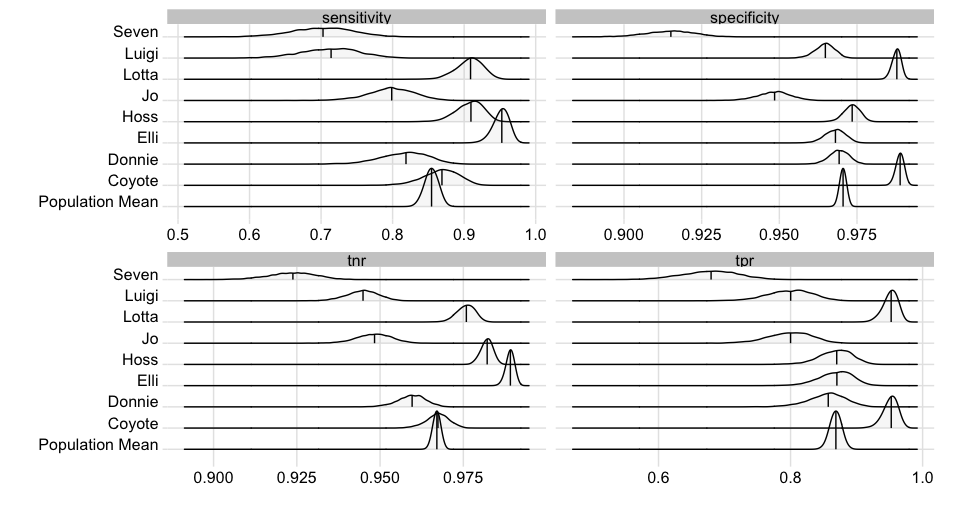
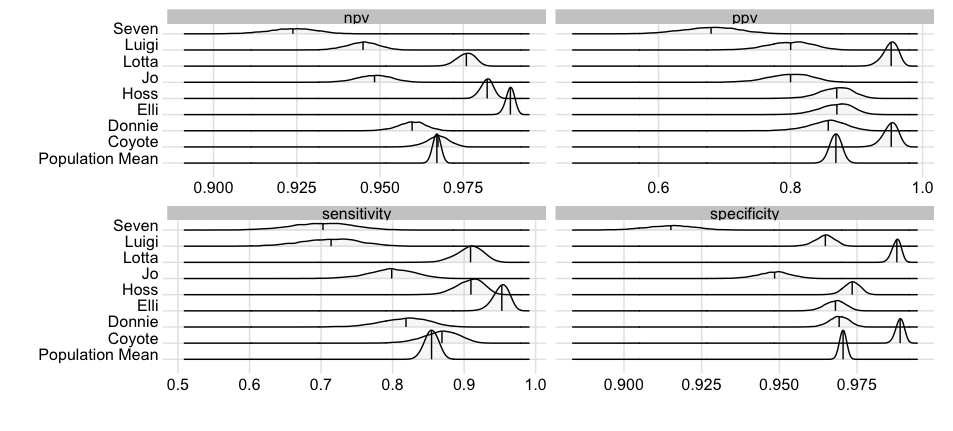
edits to covid post

Changed region(s): [[0.0304, 0.0, 0.9738, 0.935], [0.5477, 0.4223, 0.5782, 0.4826], [0.9433, 0.9049, 0.9738, 0.935]]

diff --git a/public/2020/08/03/study-finds-man-s-best-friend-may-have-a-role-to-play-in-testing-for-covid-19/index.html b/public/2020/08/03/study-finds-man-s-best-friend-may-have-a-role-to-play-in-testing-for-covid-19/index.html
@@ -8,7 +8,7 @@
     <meta name="google-site-verification" content="xBT4GhYoi5qRD5tr338pgPM5OWHHIDR6mNg1a3euekI" />
     <meta name="viewport" content="width=device-width, initial-scale=1">
     
-    <meta name="description" content="Bayesian analysis of the sensitivity, specificity, TPR, and TNR distributions from a German study measuring dogs&#39; ability to detect SARS-CoV-2 from saliva and tracheobronchial secretions">
+    <meta name="description" content="Bayesian analysis of the sensitivity, specificity, PPV, and NPV distributions from a German study measuring dogs&#39; ability to detect SARS-CoV-2 from saliva and tracheobronchial secretions">
     
     <meta name="keyword"  content="Kyle Webb, Webb, Blog">
     
@@ -417,7 +417,7 @@ Seven
 </table>
 <p>The bar chart below shows the dogs and the number of guesses they make (<em>Total</em> column above) with Luigi leading the pack.</p>
 <p><img src="/post/2020-08-03-study-finds-man-s-best-friend-may-have-a-role-to-play-in-testing-for-covid-19_files/figure-html/plot_dat-1.png" width="672" /></p>
-<p>Scatterplots below show the dogs’ measures of sensitivity, specificity, true positive rate (TPR) and true negative rate (TNR), each calculated from the true positive (TP), true negative (TN), false positive (FP), and false negative (FN) observations in Table 1.</p>
+<p>Scatterplots below show the dogs’ measures of sensitivity, specificity, positive predictive value (PPV) and negative predictive value (NPV), each calculated from the true positive (TP), true negative (TN), false positive (FP), and false negative (FN) observations in Table 1.</p>
 <p><img src="/post/2020-08-03-study-finds-man-s-best-friend-may-have-a-role-to-play-in-testing-for-covid-19_files/figure-html/plot_dat2-1.png" width="672" /></p>
 <p>Next, I used bayesian analysis to quantify these estimates probabilistically and derive population effects as well as effects for each dog. I’ve used Bayesian statistics because some of the estimates approach the boundary line for the proportion parameters (i.e. 1), the quantities are in relatively low frequency of observation, and I can encorporate priors reflecting my own beliefs before learning about these results.</p>
 </div>
@@ -425,13 +425,13 @@ Seven
 <h4>Modeling effects for each measure using Beta-Binomial conjugacy</h4>
 <p>Under this method I assume a <span class="math inline">\(Beta(3,3)\)</span> prior (shown below). The reason for this selection was because the choice reflected my initial reaction to the headlines - I would expect a dog’s detection, positive and negative, to be about 50%.</p>
 <p><img src="/post/2020-08-03-study-finds-man-s-best-friend-may-have-a-role-to-play-in-testing-for-covid-19_files/figure-html/beta_prior-1.png" width="672" /></p>
-<p>The underlying model is <span class="math inline">\(Y_{ij} = {n_{ij} \choose x_{ij}}p_{ij}^{x_{ij}}(1-p_{ij})^{n_{ij}-x_{ij}}\)</span> where <span class="math inline">\(i = {(1, 2, 3..., 8)}\)</span> for each of the dogs and <span class="math inline">\(j = {(1, 2, 3, 4)}\)</span> for the different accuracy measures. The <span class="math inline">\(Beta(3,3)\)</span> prior leads to a posterior of <span class="math inline">\(Beta(\sum{x_i} + 3, n - \sum{x_i} + 3)\)</span> for each <span class="math inline">\(p_{ij}\)</span>. The figure below shows these respective posteriors for each of the dogs across the four measures with overall median illustrated by dashed red lines. We see that Lotta would likely outpreform other dogs in measures of sensitivity and true positive rate.</p>
+<p>The underlying model is <span class="math inline">\(Y_{ij} = {n_{ij} \choose x_{ij}}p_{ij}^{x_{ij}}(1-p_{ij})^{n_{ij}-x_{ij}}\)</span> where <span class="math inline">\(i = {(1, 2, 3..., 8)}\)</span> for each of the dogs and <span class="math inline">\(j = {(1, 2, 3, 4)}\)</span> for the different accuracy measures. The <span class="math inline">\(Beta(3,3)\)</span> prior leads to a posterior of <span class="math inline">\(Beta(\sum{x_i} + 3, n - \sum{x_i} + 3)\)</span> for each <span class="math inline">\(p_{ij}\)</span>. The figure below shows these respective posteriors for each of the dogs across the four measures with overall median illustrated by dashed red lines. We see that Lotta would likely outpreform other dogs in measures of sensitivity and PPV.</p>
 <p><img src="/post/2020-08-03-study-finds-man-s-best-friend-may-have-a-role-to-play-in-testing-for-covid-19_files/figure-html/beta_conj_sim.png" /></p>
 </div>
 <div id="modeling-population-and-dog-effects-for-each-measure-on-logit-scale" class="section level4">
 <h4>Modeling population and dog effects for each measure on logit scale</h4>
 <p>The problem with the previous model choice is that it doesn’t distinguish between the random effect of the population dog effect and the fixed effect of each dog’s performance. A hierarchical model with estimates on poulation and individual dog effect would be a better choice for our analysis.</p>
-<p>For a weaker performing dog, we need a way to estimate negative effects, but <span class="math inline">\(p\)</span> can’t be negative (<span class="math inline">\(p \in [0,1]\)</span>). Therefore, I’ve transformed the percentages for sensitivity, specificty, tpr, and tnr to the logit scale (i.e. <span class="math inline">\(logitP = log(\frac{p {1-p)\)</span> s.t. <span class="math inline">\(p \in (-\infty, \infty)\)</span>). I add the logit random effects of population and fixed individual dog effects, while choosing appropriate priors for these effects on the logit scale. The following model shows the hierarchical relation:</p>
+<p>For a weaker performing dog, we need a way to estimate negative effects, but <span class="math inline">\(p\)</span> can’t be negative (<span class="math inline">\(p \in [0,1]\)</span>). Therefore, I’ve transformed the percentages for sensitivity, specificty, ppv, and npv to the logit scale (i.e. <span class="math inline">\(logitP = log(\frac{p {1-p)\)</span> s.t. <span class="math inline">\(p \in (-\infty, \infty)\)</span>). I add the logit random effects of population and fixed individual dog effects, while choosing appropriate priors for these effects on the logit scale. The following model shows the hierarchical relation:</p>
 <p><span class="math inline">\(\mu_{j} \sim N(logitP_{j}, \frac{1}{\sqrt{n_{j}}})\)</span><br />
 <span class="math inline">\(\theta_{ij} \sim N(logitP_{ij} - logitP_{j}, \frac{1}{\sqrt{n_{ij}}})\)</span><br />
 <span class="math inline">\(p_{ij} = \frac{1}{1 + exp(-\mu_{j}-\theta_{ij})}\)</span><br />

diff --git a/content/post/2020-08-03-study-finds-man-s-best-friend-may-have-a-role-to-play-in-testing-for-covid-19.html b/content/post/2020-08-03-study-finds-man-s-best-friend-may-have-a-role-to-play-in-testing-for-covid-19.html
@@ -9,9 +9,9 @@ categories:
 tags:
   - data science
   - statistics
-subtitle: ''
-description: "Bayesian analysis of the sensitivity, specificity, TPR, and TNR distributions from a German study measuring dogs' ability to detect SARS-CoV-2 from saliva and tracheobronchial secretions"
-image: ''
+subtitle: ""
+description: "Bayesian analysis of the sensitivity, specificity, PPV, and NPV distributions from a German study measuring dogs' ability to detect SARS-CoV-2 from saliva and tracheobronchial secretions"
+image: ""
 ---
 
 <script src="/rmarkdown-libs/kePrint/kePrint.js"></script>
@@ -240,7 +240,7 @@ Seven
 </table>
 <p>The bar chart below shows the dogs and the number of guesses they make (<em>Total</em> column above) with Luigi leading the pack.</p>
 <p><img src="/post/2020-08-03-study-finds-man-s-best-friend-may-have-a-role-to-play-in-testing-for-covid-19_files/figure-html/plot_dat-1.png" width="672" /></p>
-<p>Scatterplots below show the dogs’ measures of sensitivity, specificity, true positive rate (TPR) and true negative rate (TNR), each calculated from the true positive (TP), true negative (TN), false positive (FP), and false negative (FN) observations in Table 1.</p>
+<p>Scatterplots below show the dogs’ measures of sensitivity, specificity, positive predictive value (PPV) and negative predictive value (NPV), each calculated from the true positive (TP), true negative (TN), false positive (FP), and false negative (FN) observations in Table 1.</p>
 <p><img src="/post/2020-08-03-study-finds-man-s-best-friend-may-have-a-role-to-play-in-testing-for-covid-19_files/figure-html/plot_dat2-1.png" width="672" /></p>
 <p>Next, I used bayesian analysis to quantify these estimates probabilistically and derive population effects as well as effects for each dog. I’ve used Bayesian statistics because some of the estimates approach the boundary line for the proportion parameters (i.e. 1), the quantities are in relatively low frequency of observation, and I can encorporate priors reflecting my own beliefs before learning about these results.</p>
 </div>
@@ -248,13 +248,13 @@ Seven
 <h4>Modeling effects for each measure using Beta-Binomial conjugacy</h4>
 <p>Under this method I assume a <span class="math inline">\(Beta(3,3)\)</span> prior (shown below). The reason for this selection was because the choice reflected my initial reaction to the headlines - I would expect a dog’s detection, positive and negative, to be about 50%.</p>
 <p><img src="/post/2020-08-03-study-finds-man-s-best-friend-may-have-a-role-to-play-in-testing-for-covid-19_files/figure-html/beta_prior-1.png" width="672" /></p>
-<p>The underlying model is <span class="math inline">\(Y_{ij} = {n_{ij} \choose x_{ij}}p_{ij}^{x_{ij}}(1-p_{ij})^{n_{ij}-x_{ij}}\)</span> where <span class="math inline">\(i = {(1, 2, 3..., 8)}\)</span> for each of the dogs and <span class="math inline">\(j = {(1, 2, 3, 4)}\)</span> for the different accuracy measures. The <span class="math inline">\(Beta(3,3)\)</span> prior leads to a posterior of <span class="math inline">\(Beta(\sum{x_i} + 3, n - \sum{x_i} + 3)\)</span> for each <span class="math inline">\(p_{ij}\)</span>. The figure below shows these respective posteriors for each of the dogs across the four measures with overall median illustrated by dashed red lines. We see that Lotta would likely outpreform other dogs in measures of sensitivity and true positive rate.</p>
+<p>The underlying model is <span class="math inline">\(Y_{ij} = {n_{ij} \choose x_{ij}}p_{ij}^{x_{ij}}(1-p_{ij})^{n_{ij}-x_{ij}}\)</span> where <span class="math inline">\(i = {(1, 2, 3..., 8)}\)</span> for each of the dogs and <span class="math inline">\(j = {(1, 2, 3, 4)}\)</span> for the different accuracy measures. The <span class="math inline">\(Beta(3,3)\)</span> prior leads to a posterior of <span class="math inline">\(Beta(\sum{x_i} + 3, n - \sum{x_i} + 3)\)</span> for each <span class="math inline">\(p_{ij}\)</span>. The figure below shows these respective posteriors for each of the dogs across the four measures with overall median illustrated by dashed red lines. We see that Lotta would likely outpreform other dogs in measures of sensitivity and PPV.</p>
 <p><img src="/post/2020-08-03-study-finds-man-s-best-friend-may-have-a-role-to-play-in-testing-for-covid-19_files/figure-html/beta_conj_sim.png" /></p>
 </div>
 <div id="modeling-population-and-dog-effects-for-each-measure-on-logit-scale" class="section level4">
 <h4>Modeling population and dog effects for each measure on logit scale</h4>
 <p>The problem with the previous model choice is that it doesn’t distinguish between the random effect of the population dog effect and the fixed effect of each dog’s performance. A hierarchical model with estimates on poulation and individual dog effect would be a better choice for our analysis.</p>
-<p>For a weaker performing dog, we need a way to estimate negative effects, but <span class="math inline">\(p\)</span> can’t be negative (<span class="math inline">\(p \in [0,1]\)</span>). Therefore, I’ve transformed the percentages for sensitivity, specificty, tpr, and tnr to the logit scale (i.e. <span class="math inline">\(logitP = log(\frac{p {1-p)\)</span> s.t. <span class="math inline">\(p \in (-\infty, \infty)\)</span>). I add the logit random effects of population and fixed individual dog effects, while choosing appropriate priors for these effects on the logit scale. The following model shows the hierarchical relation:</p>
+<p>For a weaker performing dog, we need a way to estimate negative effects, but <span class="math inline">\(p\)</span> can’t be negative (<span class="math inline">\(p \in [0,1]\)</span>). Therefore, I’ve transformed the percentages for sensitivity, specificty, ppv, and npv to the logit scale (i.e. <span class="math inline">\(logitP = log(\frac{p {1-p)\)</span> s.t. <span class="math inline">\(p \in (-\infty, \infty)\)</span>). I add the logit random effects of population and fixed individual dog effects, while choosing appropriate priors for these effects on the logit scale. The following model shows the hierarchical relation:</p>
 <p><span class="math inline">\(\mu_{j} \sim N(logitP_{j}, \frac{1}{\sqrt{n_{j}}})\)</span><br />
 <span class="math inline">\(\theta_{ij} \sim N(logitP_{ij} - logitP_{j}, \frac{1}{\sqrt{n_{ij}}})\)</span><br />
 <span class="math inline">\(p_{ij} = \frac{1}{1 + exp(-\mu_{j}-\theta_{ij})}\)</span><br />

diff --git a/public/categories/data-science/index.html b/public/categories/data-science/index.html
@@ -171,7 +171,7 @@
 	
         <div class="post-content-preview">
 	
-            Bayesian analysis of the sensitivity, specificity, TPR, and TNR distributions from a German study measuring dogs&#39; ability to detect SARS-CoV-2 from saliva and tracheobronchial secretions
+            Bayesian analysis of the sensitivity, specificity, PPV, and NPV distributions from a German study measuring dogs&#39; ability to detect SARS-CoV-2 from saliva and tracheobronchial secretions
         
         </div>
     </a>

diff --git a/public/categories/statistics/index.html b/public/categories/statistics/index.html
@@ -171,7 +171,7 @@
 	
         <div class="post-content-preview">
 	
-            Bayesian analysis of the sensitivity, specificity, TPR, and TNR distributions from a German study measuring dogs&#39; ability to detect SARS-CoV-2 from saliva and tracheobronchial secretions
+            Bayesian analysis of the sensitivity, specificity, PPV, and NPV distributions from a German study measuring dogs&#39; ability to detect SARS-CoV-2 from saliva and tracheobronchial secretions
         
         </div>
     </a>

diff --git a/public/index.html b/public/index.html
@@ -172,7 +172,7 @@
 	
         <div class="post-content-preview">
 	
-            Bayesian analysis of the sensitivity, specificity, TPR, and TNR distributions from a German study measuring dogs&#39; ability to detect SARS-CoV-2 from saliva and tracheobronchial secretions
+            Bayesian analysis of the sensitivity, specificity, PPV, and NPV distributions from a German study measuring dogs&#39; ability to detect SARS-CoV-2 from saliva and tracheobronchial secretions
         
         </div>
     </a>

diff --git a/public/tags/data-science/index.html b/public/tags/data-science/index.html
@@ -171,7 +171,7 @@
 	
         <div class="post-content-preview">
 	
-            Bayesian analysis of the sensitivity, specificity, TPR, and TNR distributions from a German study measuring dogs&#39; ability to detect SARS-CoV-2 from saliva and tracheobronchial secretions
+            Bayesian analysis of the sensitivity, specificity, PPV, and NPV distributions from a German study measuring dogs&#39; ability to detect SARS-CoV-2 from saliva and tracheobronchial secretions
         
         </div>
     </a>

diff --git a/public/tags/statistics/index.html b/public/tags/statistics/index.html
@@ -171,7 +171,7 @@
 	
         <div class="post-content-preview">
 	
-            Bayesian analysis of the sensitivity, specificity, TPR, and TNR distributions from a German study measuring dogs&#39; ability to detect SARS-CoV-2 from saliva and tracheobronchial secretions
+            Bayesian analysis of the sensitivity, specificity, PPV, and NPV distributions from a German study measuring dogs&#39; ability to detect SARS-CoV-2 from saliva and tracheobronchial secretions
         
         </div>
     </a>
